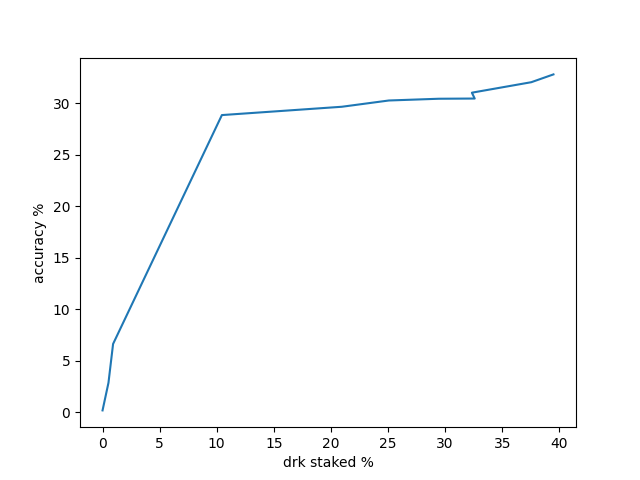
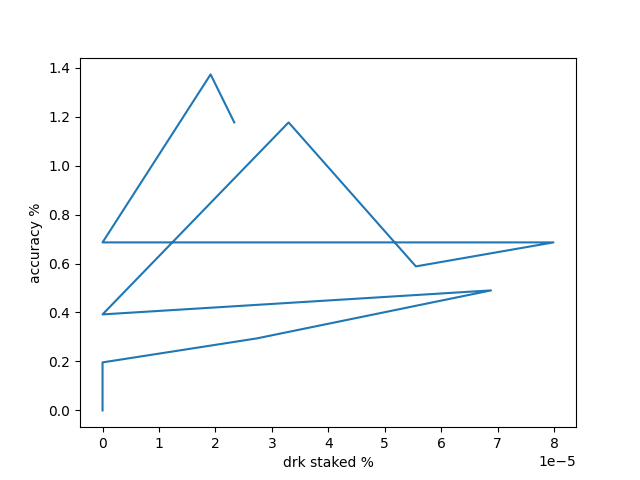
[research/lotterysim] headstart, remove airdrop

diff --git a/script/research/lotterysim/discrete_instance_pi_headstart.py b/script/research/lotterysim/discrete_instance_pi_headstart.py
@@ -1,0 +1,44 @@
+import os
+import numpy
+from core.strategy import *
+from core.lottery import *
+import matplotlib.pyplot as plt
+import scipy.stats as stats
+import math
+from draw import draw
+
+os.system("rm log/*_feedback.hist; rm log/*_output.hist")
+
+RUNNING_TIME = int(input("running time:"))
+NODES=1000
+
+if __name__ == "__main__":
+    darkies = [Darkie(0, strategy=LinearStrategy(EPOCH_LENGTH)) for _ in range(NODES)]
+    dt = DarkfiTable(0, RUNNING_TIME, CONTROLLER_TYPE_DISCRETE, kp=-0.010399999999938556, ki=-0.0365999996461878, kd=0,  r_kp=-0.63, r_ki=3.35, r_kd=0)
+    for darkie in darkies:
+        dt.add_darkie(darkie)
+    acc, avg_apy, avg_reward, stake_ratio, avg_apr = dt.background(rand_running_time=False)
+    sum_zero_stake = sum([darkie.stake for darkie in darkies[NODES:]])
+    print('acc: {}, avg(apr): {}, avg(reward): {}, stake_ratio: {}'.format(acc, avg_apr, avg_reward, stake_ratio))
+    print('total stake of 0mint: {}, ratio: {}'.format(sum_zero_stake, sum_zero_stake/ERC20DRK))
+    dt.write()
+    aprs = []
+    fortuners = 0.0
+    for darkie in darkies:
+        aprs += [float(darkie.apr_scaled_to_runningtime())]
+        if darkie.initial_stake[-1] - darkie.initial_stake[0] > 0:
+            fortuners+=1
+
+    print('fortuners: {}'.format(str(fortuners/len(darkies))))
+    # distribution of aprs
+    aprs = sorted(aprs)
+    mu = float(sum(aprs)/len(aprs))
+    shifted_aprs = [apr - mu for apr in aprs]
+    plt.plot([apr*100 for apr in aprs])
+    plt.title('annual percentage return, avg: {:}'.format(mu*100))
+    plt.savefig('img/apr_distribution.png')
+    plt.show()
+
+    variance = sum(shifted_aprs)/(len(aprs)-1)
+    print('mu: {}, variance: {}'.format(str(mu), str(variance)))
+    draw()

diff --git a/script/research/lotterysim/acc_vs_staked_ratio_pi_headstart.py b/script/research/lotterysim/acc_vs_staked_ratio_pi_headstart.py
@@ -1,0 +1,39 @@
+from core.lottery import *
+import os
+import numpy
+from matplotlib import pyplot as plt
+
+os.system("rm log/f_output.hist; rm log/f_feedback.hist")
+
+RUNNING_TIME = int(input("running time:"))
+ERC20DRK=2.1*10**9
+NODES=1000
+plot = []
+EXPS=10
+for nodes in numpy.concatenate((numpy.array([1,5]), numpy.linspace(10,NODES, 10))):
+    accs = []
+    for _ in range(EXPS):
+        darkies = []
+        egalitarian = ERC20DRK/NODES
+        darkies += [ Darkie(random.gauss(0, 0), strategy=random_strategy(EPOCH_LENGTH)) for id in range(int(nodes)) ]
+        airdrop = ERC20DRK
+        dt = DarkfiTable(0, RUNNING_TIME, CONTROLLER_TYPE_DISCRETE, kp=-0.0104, ki=-0.0366, kd=0.0384,  r_kp=-2.53, r_ki=29.5, r_kd=53.77)
+        for darkie in darkies:
+            dt.add_darkie(darkie)
+        acc, apy, reward, staked_ratio, apr = dt.background(rand_running_time=False)
+        accs += [acc]
+        effective_airdrop  = 0
+        for darkie in darkies:
+            effective_airdrop+=darkie.stake
+        effective_airdrop*=float(staked_ratio)
+        stake_portion = effective_airdrop/airdrop*100
+        print("network airdrop: {}, staked token: {}/{}% on {} nodes".format(airdrop, effective_airdrop, stake_portion, len(darkies)))
+    avg_acc = sum(accs)/EXPS
+    plot+=[(stake_portion, avg_acc)]
+
+
+plt.plot([x[0] for x in plot], [x[1] for x in plot])
+plt.xlabel('drk staked %')
+plt.ylabel('accuracy %')
+plt.savefig('img'+os.sep+'stake_pi.png')
+plt.show()

diff --git a/script/research/lotterysim/core/darkie.py b/script/research/lotterysim/core/darkie.py
@@ -65,7 +65,7 @@ class Darkie():
             x = (Num(1) if hp else 1)  - (Num(tune_parameter) if hp else tune_parameter)
             c = (x.ln() if type(x)==Num else math.log(x))
             sigmas = [   c/((self.Sigma+EPSILON)**i) * ( ((L_HP if hp else L)/fact(i)) ) for i in range(1, k+1) ]
-            scaled_target = approx_target_in_zk(sigmas, Num(stake)) #+ (BASE_L_HP if hp else BASE_L)
+            scaled_target = approx_target_in_zk(sigmas, Num(stake)) + (BASE_L_HP if hp else BASE_L)
             return scaled_target
 
         if self.slot % EPOCH_LENGTH ==0 and self.slot > 0:

diff --git a/script/research/lotterysim/core/constants.py b/script/research/lotterysim/core/constants.py
@@ -35,3 +35,6 @@ REWARD_MIN_HP = Num(REWARD_MIN)
 REWARD_MAX_HP = Num(REWARD_MAX)
 
 ACC_WINDOW = 100
+
+BASE_L = 0.001*L
+BASE_L_HP = Num(BASE_L)
